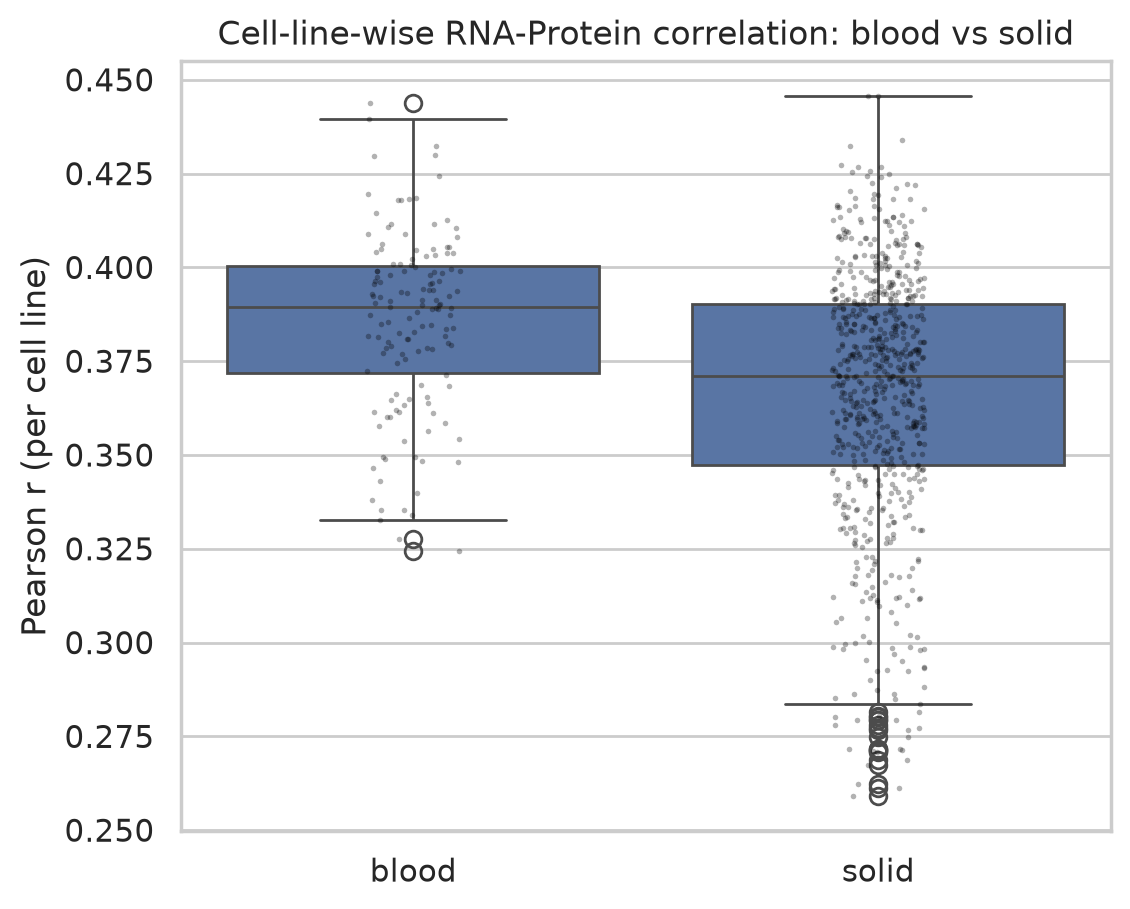
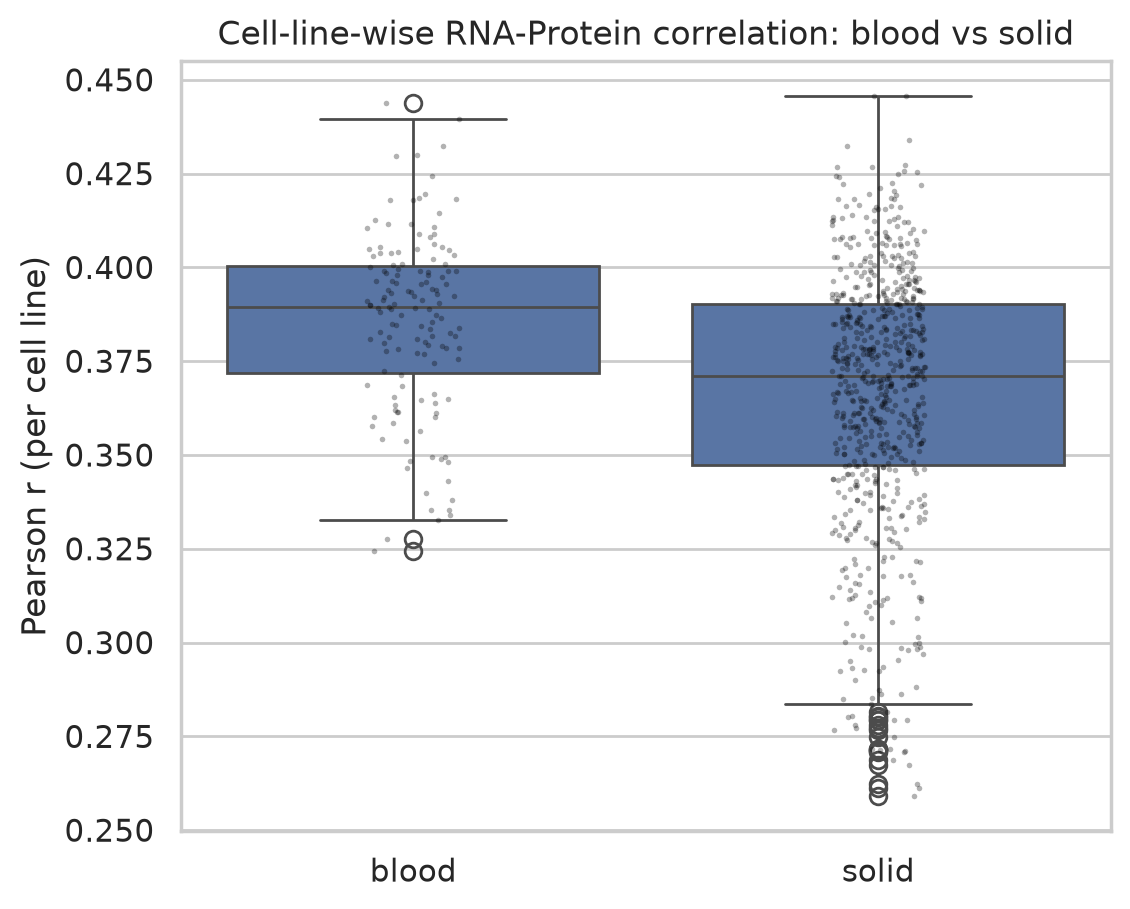
run rf with new selection

diff --git a/docs/random_forest_results.md b/docs/random_forest_results.md
@@ -1,0 +1,54 @@
+# Random Forest Baselines — Results & Conclusions
+
+Notebook: `11_random_forest.ipynb` | 5 folds, mean ± std | Fixed hyperparameters: `n_estimators=500, max_features='sqrt'`
+
+**Feature selection method:** RNA and protein arms use the **top 1,000 highest-variance features**, selected independently per arm and per fold from **train-fold cell lines only** (leakage-safe — selection never sees val/test cell lines). Drug arms use 2048-bit Morgan fingerprints (radius=2). No drug-response-aware selection is used yet for protein (see caveat below).
+
+---
+
+## Results
+
+| Arm | Split | Correlation | Spearman | RMSE | R2 | ROC-AUC |
+|---|---|---|---|---|---|---|
+| Drug | LCO | 0.790 ± 0.020 | 0.726 ± 0.018 | 1.652 ± 0.053 | 0.618 ± 0.026 | 0.858 ± 0.011 |
+| Drug | LDO | 0.104 ± 0.155 | 0.094 ± 0.160 | 2.566 ± 0.380 | -0.028 ± 0.056 | 0.528 ± 0.086 |
+| Drug | LPO | 0.788 ± 0.015 | 0.724 ± 0.009 | 1.660 ± 0.047 | 0.616 ± 0.022 | 0.854 ± 0.005 |
+| Drug | LTO | 0.794 ± 0.011 | 0.738 ± 0.008 | 1.768 ± 0.131 | 0.570 ± 0.047 | 0.862 ± 0.004 |
+| Protein | LCO | 0.232 ± 0.011 | 0.250 ± 0.022 | 2.616 ± 0.023 | 0.050 ± 0.007 | 0.618 ± 0.008 |
+| Protein | LDO | 0.320 ± 0.042 | 0.340 ± 0.037 | 2.446 ± 0.393 | 0.066 ± 0.076 | 0.660 ± 0.023 |
+| Protein | LPO | 0.306 ± 0.009 | 0.330 ± 0.010 | 2.558 ± 0.015 | 0.094 ± 0.005 | 0.656 ± 0.005 |
+| Protein | LTO | 0.224 ± 0.045 | 0.232 ± 0.045 | 2.638 ± 0.036 | 0.044 ± 0.018 | 0.606 ± 0.021 |
+| RNA | LCO | 0.224 ± 0.013 | 0.244 ± 0.015 | 2.622 ± 0.026 | 0.046 ± 0.009 | 0.618 ± 0.004 |
+| RNA | LDO | 0.320 ± 0.042 | 0.340 ± 0.037 | 2.450 ± 0.396 | 0.066 ± 0.076 | 0.660 ± 0.023 |
+| RNA | LPO | 0.306 ± 0.009 | 0.330 ± 0.010 | 2.558 ± 0.015 | 0.094 ± 0.005 | 0.654 ± 0.005 |
+| RNA | LTO | 0.220 ± 0.047 | 0.226 ± 0.048 | 2.648 ± 0.041 | 0.038 ± 0.016 | 0.600 ± 0.023 |
+| RNA+Drug | LCO | 0.838 ± 0.013 | 0.790 ± 0.014 | 1.474 ± 0.048 | 0.696 ± 0.021 | 0.890 ± 0.007 |
+| RNA+Drug | LDO | 0.350 ± 0.077 | 0.356 ± 0.075 | 2.420 ± 0.392 | 0.088 ± 0.070 | 0.654 ± 0.047 |
+| RNA+Drug | LPO | 0.860 ± 0.012 | 0.824 ± 0.009 | 1.376 ± 0.056 | 0.736 ± 0.022 | 0.904 ± 0.005 |
+| RNA+Drug | LTO | 0.834 ± 0.023 | 0.790 ± 0.020 | 1.508 ± 0.050 | 0.686 ± 0.035 | 0.890 ± 0.014 |
+| Protein+Drug | LCO | 0.838 ± 0.018 | 0.792 ± 0.015 | 1.464 ± 0.057 | 0.700 ± 0.025 | 0.890 ± 0.007 |
+| Protein+Drug | LDO | 0.340 ± 0.074 | 0.346 ± 0.075 | 2.426 ± 0.394 | 0.082 ± 0.070 | 0.654 ± 0.047 |
+| Protein+Drug | LPO | 0.858 ± 0.015 | 0.824 ± 0.009 | 1.376 ± 0.056 | 0.738 ± 0.022 | 0.904 ± 0.005 |
+| Protein+Drug | LTO | 0.836 ± 0.026 | 0.794 ± 0.024 | 1.492 ± 0.060 | 0.692 ± 0.037 | 0.890 ± 0.014 |
+| RNA+Protein+Drug | LCO | 0.838 ± 0.013 | 0.792 ± 0.015 | 1.468 ± 0.049 | 0.702 ± 0.023 | 0.890 ± 0.007 |
+| RNA+Protein+Drug | LDO | 0.336 ± 0.070 | 0.342 ± 0.073 | 2.428 ± 0.394 | 0.076 ± 0.067 | 0.652 ± 0.043 |
+| RNA+Protein+Drug | LPO | 0.862 ± 0.011 | 0.826 ± 0.005 | 1.372 ± 0.052 | 0.738 ± 0.022 | 0.904 ± 0.005 |
+| RNA+Protein+Drug | LTO | 0.836 ± 0.026 | 0.796 ± 0.025 | 1.500 ± 0.058 | 0.690 ± 0.039 | 0.890 ± 0.014 |
+
+---
+
+## Conclusions
+
+- **RF is currently the strongest baseline in the project by a clear margin.** Combined arms (RNA+Drug, Protein+Drug) reach LCO r≈0.838, well above the best DL single-modality result so far (drug-FP MLP, r=0.73) and the naive `NaiveTissueDrugMeanPredictor` under the new splits (LCO r=0.762). This is the real bar the fusion model needs to clear, not the naive baselines or single-modality DL numbers.
+
+- **Adding omics to drug fingerprint genuinely helps, on both axes that matter.** RNA+Drug and Protein+Drug both beat Drug-only on LCO (0.838 vs 0.790) and clear it more comfortably on LTO (0.834–0.836 vs 0.794). They also partially recover LDO performance that Drug-only catastrophically loses (0.340–0.350 vs 0.104) — omics context gives the model something to fall back on for unseen drugs, which fingerprint-only cannot. This is the first result in the project showing the kind of complementary value multimodal fusion is supposed to deliver — encouraging, but see the caveat below before reading too much into *which* omics layer is responsible.
+
+- **RNA+Drug and Protein+Drug are statistically indistinguishable from each other** (LCO: 0.838 vs 0.838; LPO: 0.860 vs 0.858; LTO: 0.834 vs 0.836; LDO: 0.350 vs 0.340 — all well within one std of each other). Combined with the earlier finding that RNA-only and protein-only predictions correlate at r=0.996 with each other, this confirms the **top-1,000-variance feature selection is not capturing modality-specific signal for either arm** — both omics layers are most likely converging on the same tissue-of-origin proxy, not on independent RNA- or protein-specific biology. The model cannot currently tell you whether protein contributes anything beyond RNA, because both arms are functionally interchangeable under this selection method.
+
+- **Drug-only repeats the same per-drug-mean pattern seen in every model so far** (DL and naive alike): strong when the drug has been seen during training (LCO/LPO/LTO ≈ 0.79), collapses when it hasn't (LDO = 0.104, barely above chance, R² negative). RF's drug-only LCO (0.790) is meaningfully stronger than the MLP's drug-FP arm (0.73) — RF is simply a stronger fingerprint-only model, not evidence of anything biological.
+
+- **Variance and ROC-AUC track correlation closely across all arms**, with no major outliers — no sign of an additional bug beyond the known selection confound (RMSE, R², and ROC-AUC all move in the expected direction alongside Correlation/Spearman within each row).
+
+- **RNA+Protein+Drug (all three modalities combined) shows essentially no improvement over either two-way combination** (LCO: 0.838, identical to both RNA+Drug and Protein+Drug; LPO: 0.862, only marginally above 0.860/0.858; LTO: 0.836, identical; LDO: 0.336, actually slightly *below* RNA+Drug's 0.350, well within noise). Adding the second omics layer on top of the first contributes nothing measurable — exactly what you'd expect given RNA and protein are already converging on the same signal individually. This is further confirmation (not new evidence, but a consistent replication) that the current selection method gives the model two redundant copies of the same information rather than two complementary ones. A working fusion model should show RNA+Protein+Drug clearly beating both two-way arms — this flat result is the cleanest illustration yet of why the protein selection fix is a blocker, not a nice-to-have.
+
+- **Action required before the fusion model:** protein feature selection must change from top-variance to an RNA-divergence-aware method (e.g. partial correlation controlling for the gene's own RNA expression, or residual variance after regressing protein on RNA) before RNA+Drug vs Protein+Drug vs RNA+Protein+Drug — or the eventual cross-attention fusion model — can be trusted as a genuine test of multimodal complementarity. Until then, treat all protein-involving numbers in this table as provisional.